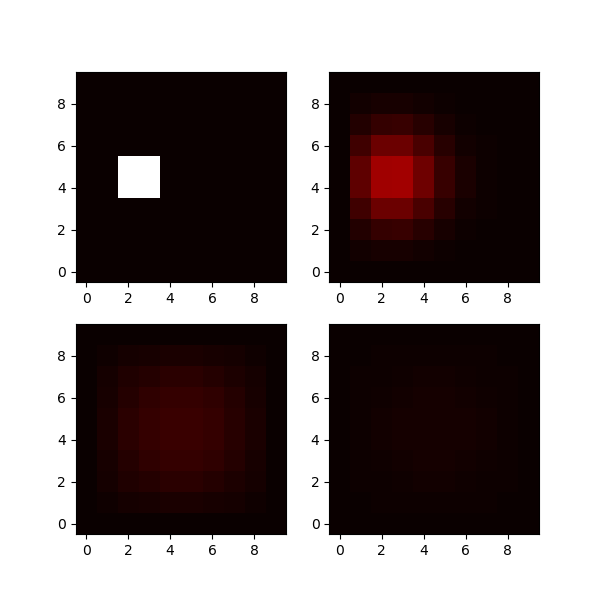
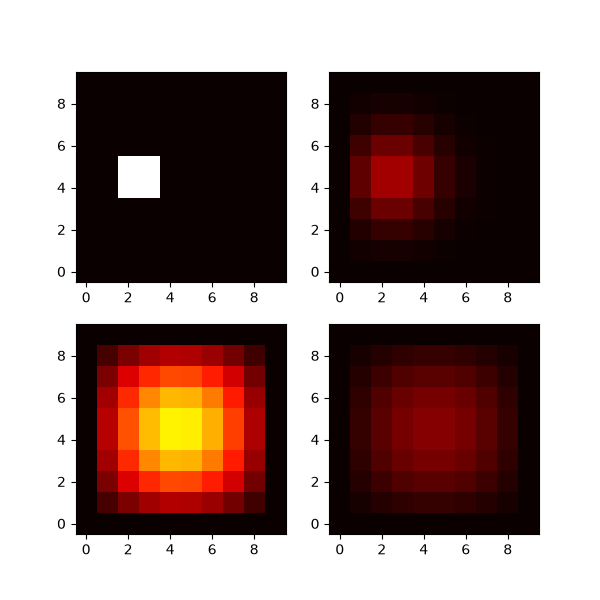
Avance semana 9

diff --git a/Casa/Semana_9/PLOTS_CarrascoManuel_S9CASA_EDP.py b/Casa/Semana_9/PLOTS_CarrascoManuel_S9CASA_EDP.py
@@ -34,14 +34,14 @@ ax[1,0].imshow(
     tensor_temperaturaf[5000,:,:], 
     cmap='hot', 
     vmin=vmin, 
-    vmax=55, 
+    vmax=50.5, 
     origin='lower', 
 )
 ax[1,1].imshow(
     tensor_temperaturaf[10000,:,:], 
     cmap='hot', 
     vmin=vmin, 
-    vmax=51, 
+    vmax=50.1, 
     origin='lower', 
 )
 plt.savefig("Difusion.png")

diff --git a/Casa/Semana_9/prueba.cpp b/Casa/Semana_9/prueba.cpp
@@ -11,7 +11,7 @@ const double t_final = 2500;
 const double dt = (0.2*(dx*dx))/nu;
 const int nt = (t_final/dt) +1; 
 const double Nt = (t_final/dt) +1; 
-const int inicio_calienteX = 0.2/dx;
+
 int main(){
 std::cout<<dx<<"\n";
     /*    
